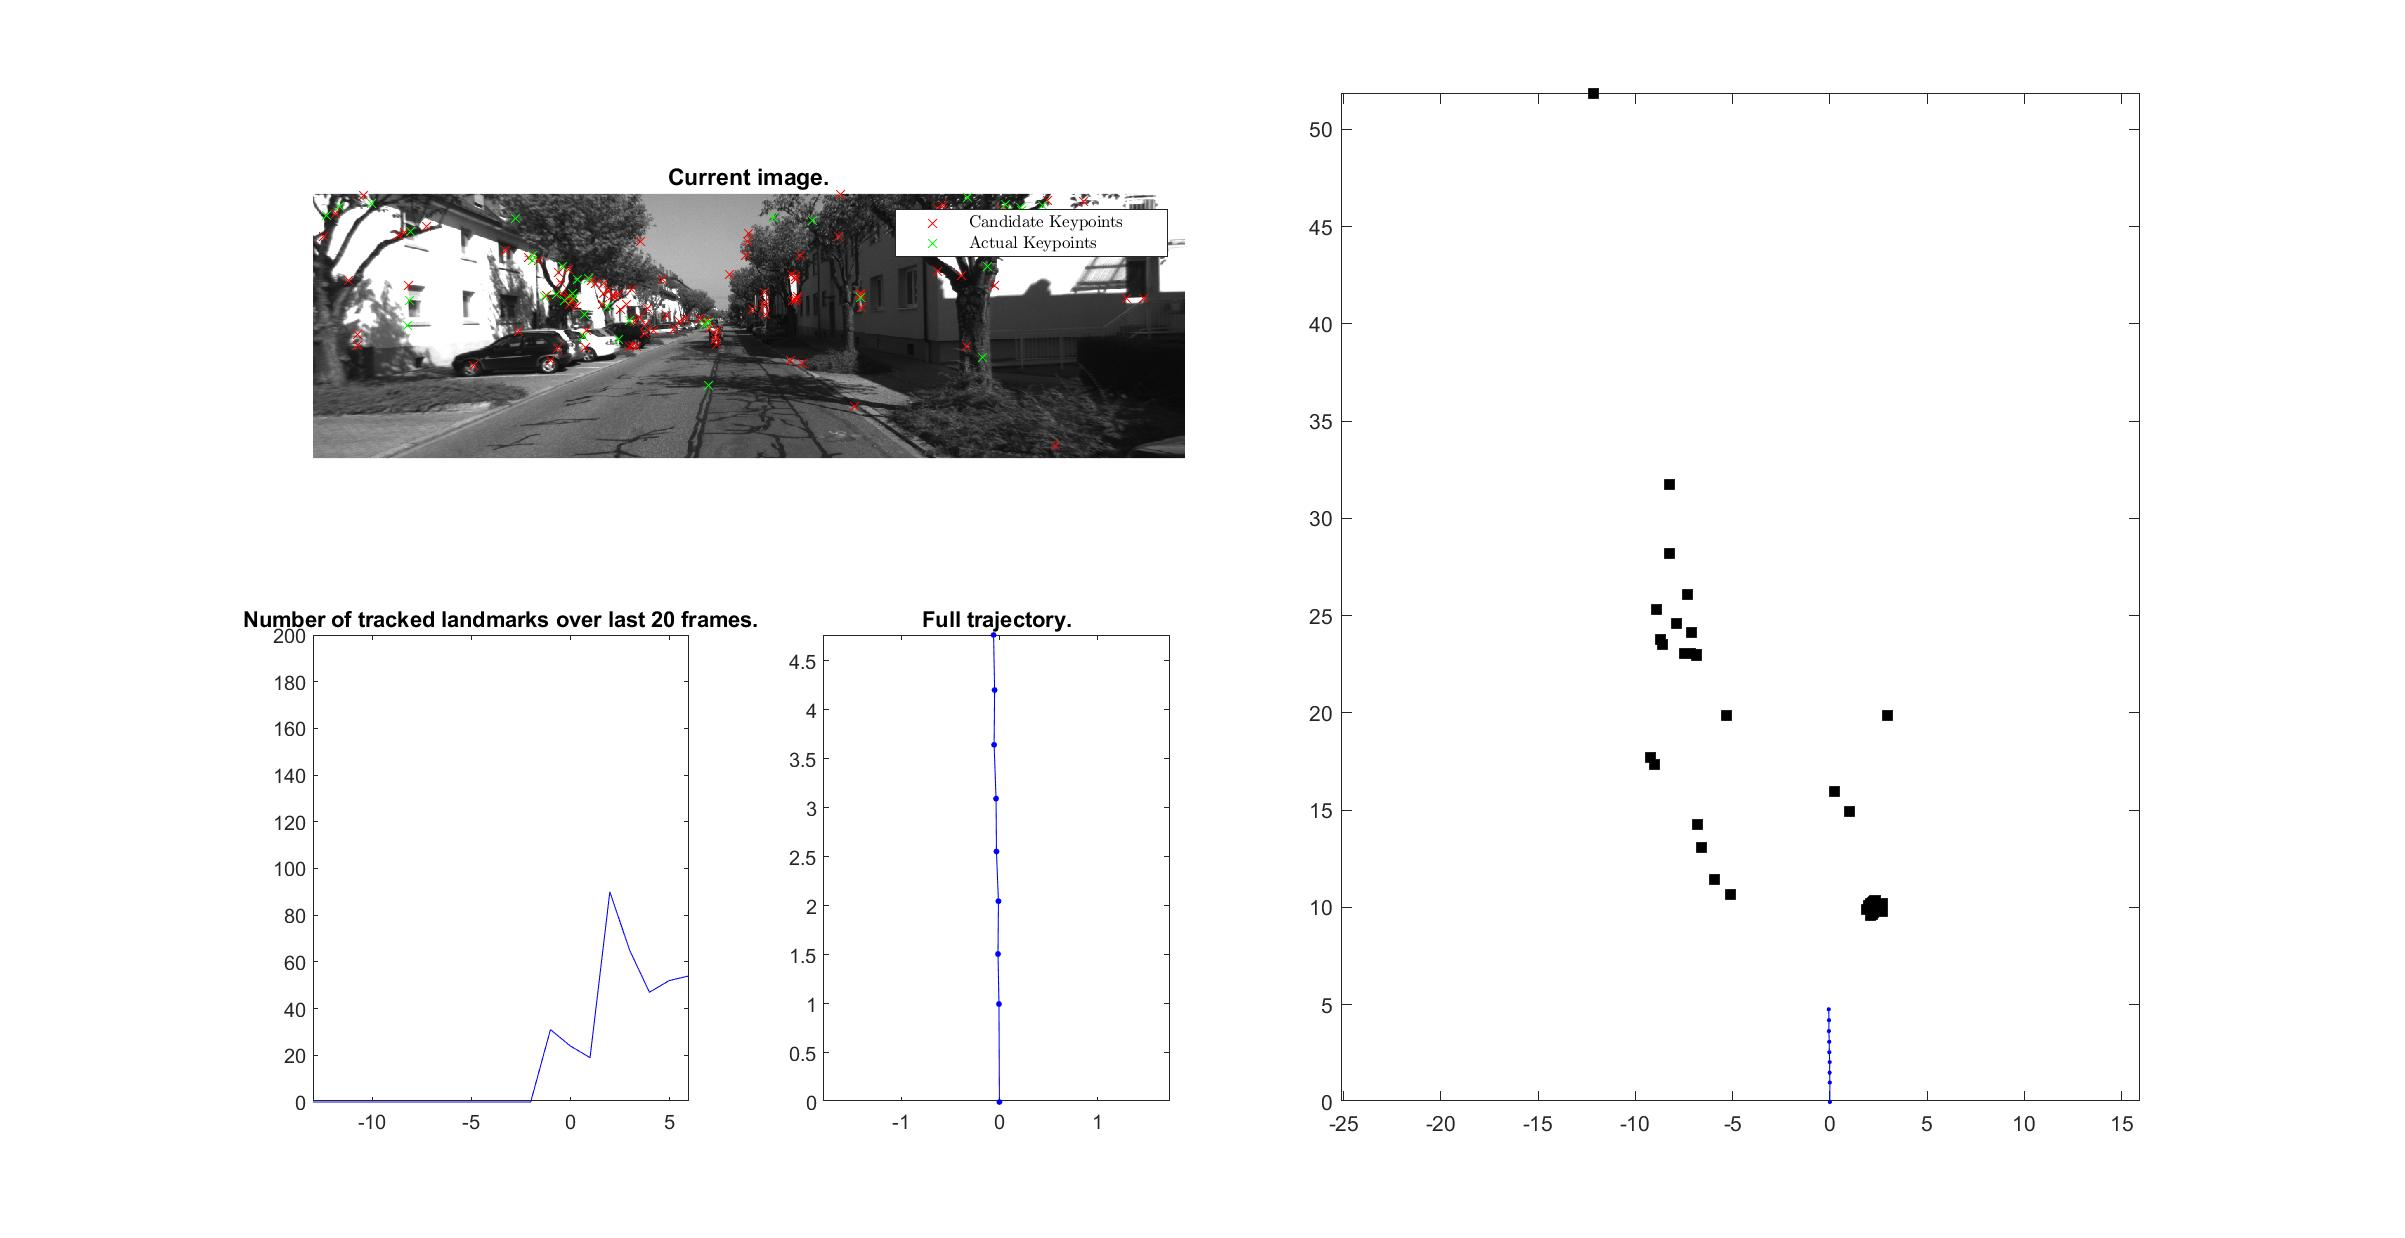
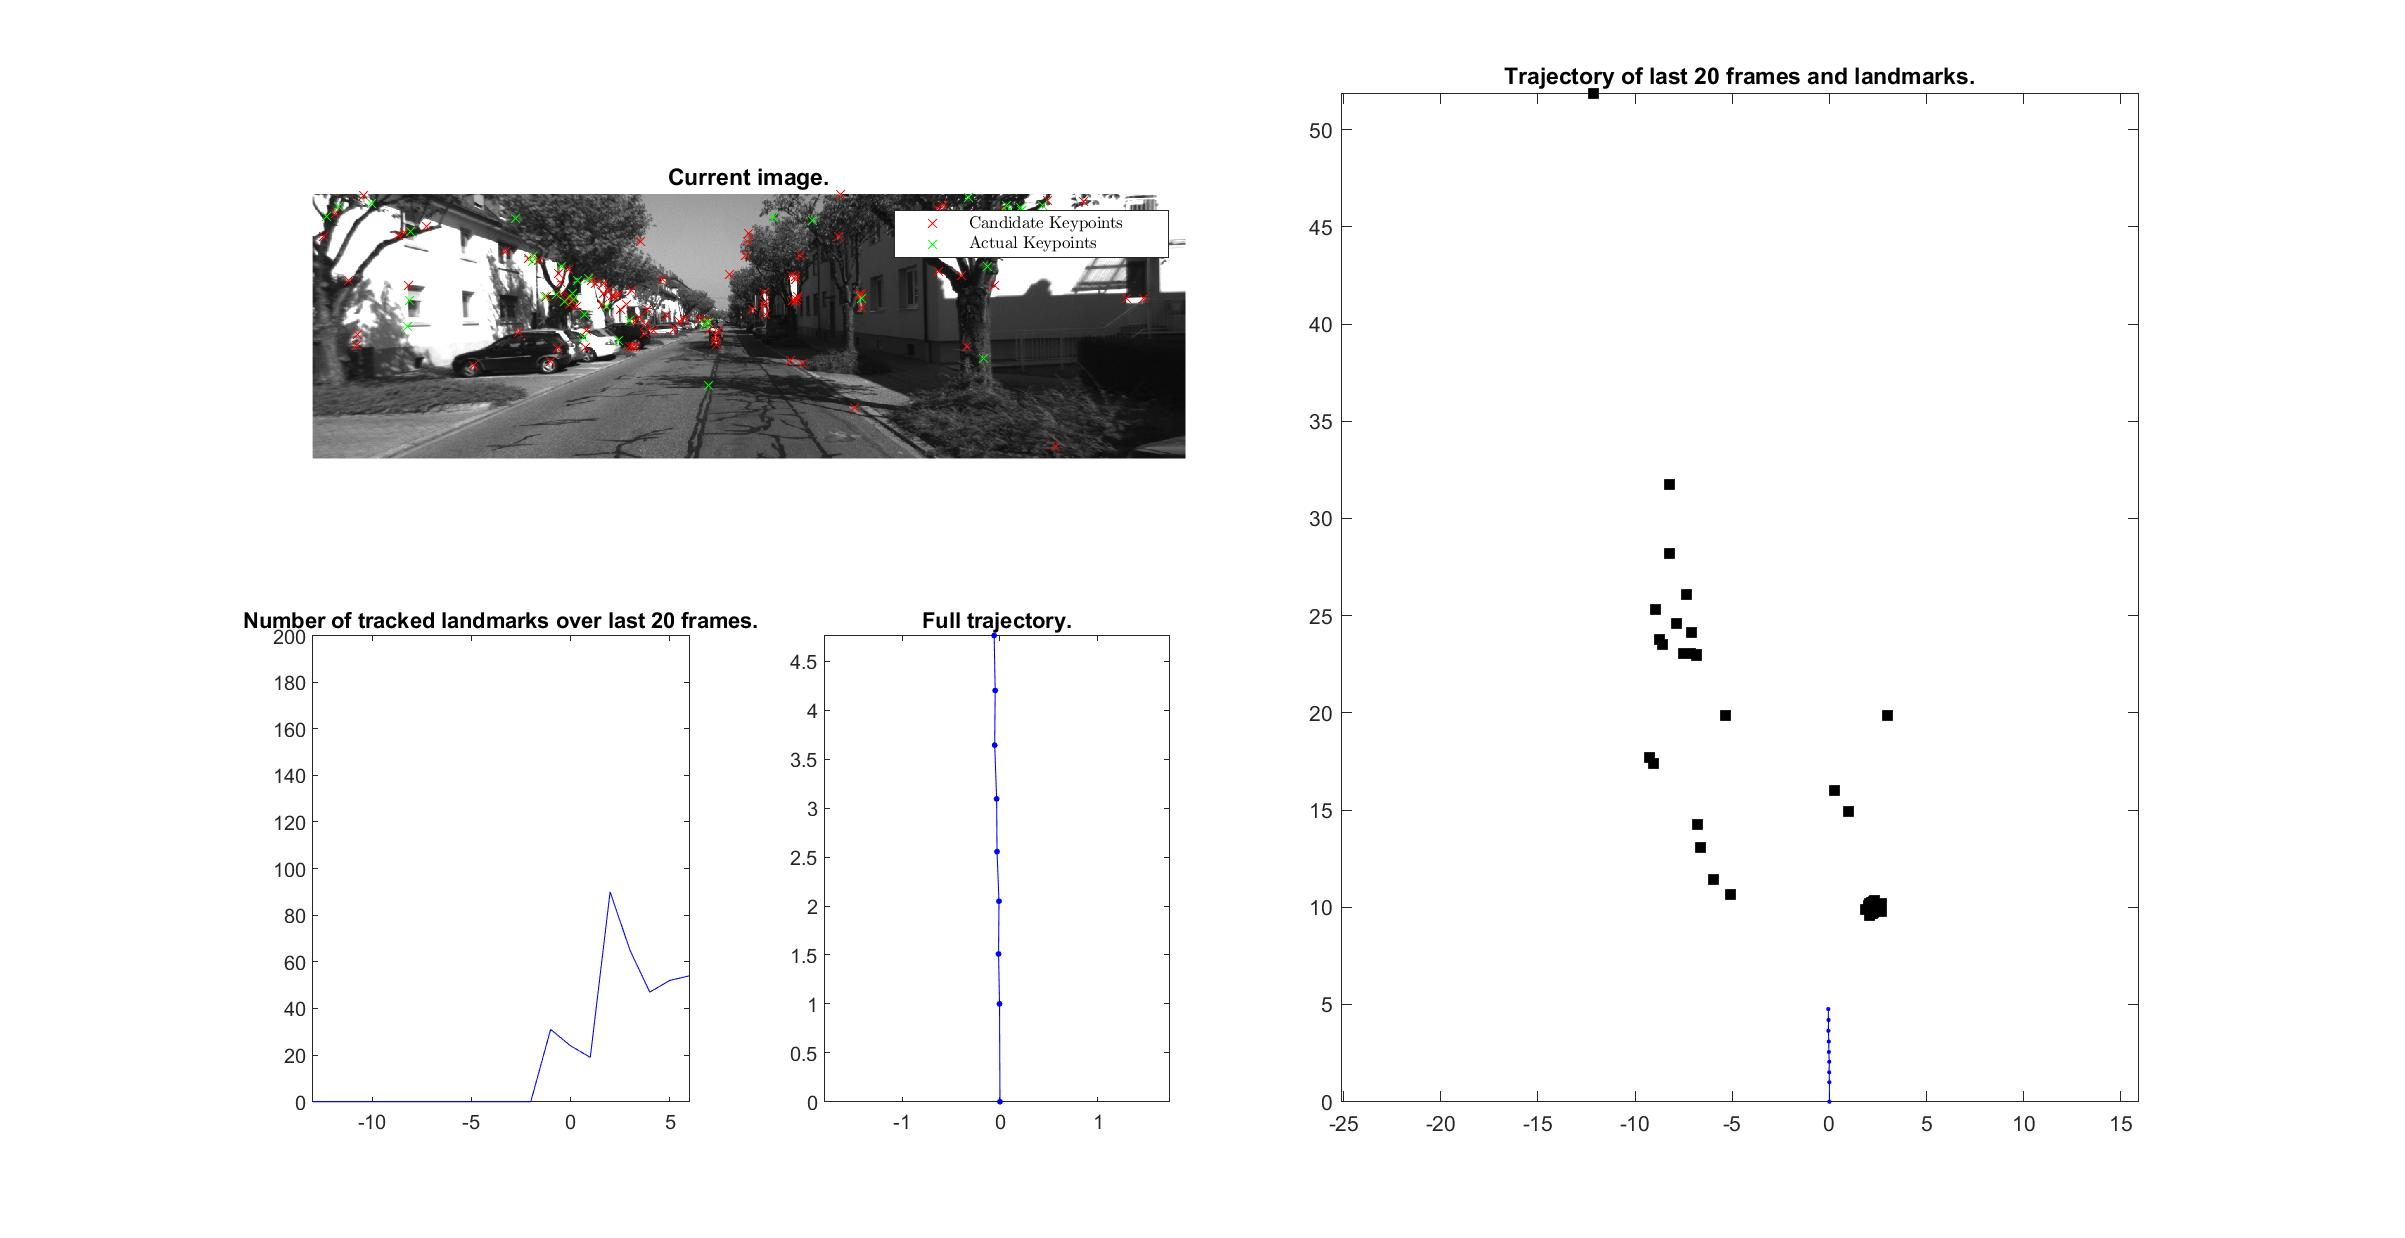
update

diff --git a/lib/viz/plotVO.m b/lib/viz/plotVO.m
@@ -73,7 +73,7 @@ plot(t_W_C_all(1,last20FramesIdx), t_W_C_all(2,last20FramesIdx),'b-o',...
 % 
 % hold off
 % 
-% title('Trajectory of last 20 frames and landmarks.')
+ title('Trajectory of last 20 frames and landmarks.')
 set(gcf, 'GraphicsSmoothing', 'on')
 
 axis equal
@@ -82,16 +82,5 @@ axis equal
 last20FramesIdx_next = last20FramesIdx + 1;
 
 
-%  writerObj = VideoWriter('example.avi');
-%  writerObj.FrameRate = 60;
-%  open(writerObj);
-% 
-%  for k = 1:20 
-%   
-%    frame = getframe;
-%    writeVideo(writerObj,frame);
-%  end
-%  close(writerObj);
-% 
 end
 

diff --git a/main.m b/main.m
@@ -163,13 +163,13 @@ for i = range
     
     % Make sure that plots refresh
     pause(0.01);
-
+ 
     prev_img = image;
     prev_state = curr_state;
     
-
-fname = 'plotFrames';
-filename = sprintf('fig%04d',i-3);
-saveas(gcf, fullfile(fname, filename), 'jpeg');
+    %save frames (comment if not used)
+    fname = 'plotFrames';
+    filename = sprintf('fig%04d',i-3);
+    saveas(gcf, fullfile(fname, filename), 'jpeg');
 
 end

diff --git a/lib/viz/VideoFromFrames.m b/lib/viz/VideoFromFrames.m
@@ -1,4 +1,4 @@
-workingDir = 'plotFrames'
+workingDir = 'plotFrames';
 imageNames = dir(fullfile('plotFrames','*.jpg'));
 imageNames = {imageNames.name}';
 

diff --git a/lib/viz/videoFromFrames.m b/lib/viz/videoFromFrames.m
@@ -1,4 +1,4 @@
-workingDir = 'plotFrames'
+workingDir = 'plotFrames';
 imageNames = dir(fullfile('plotFrames','*.jpg'));
 imageNames = {imageNames.name}';
 
